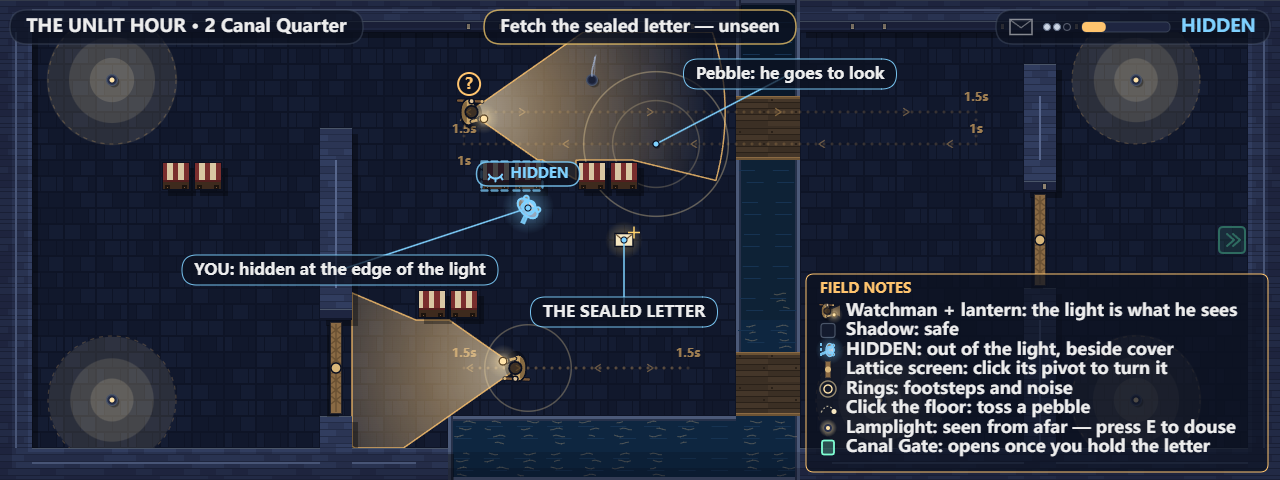
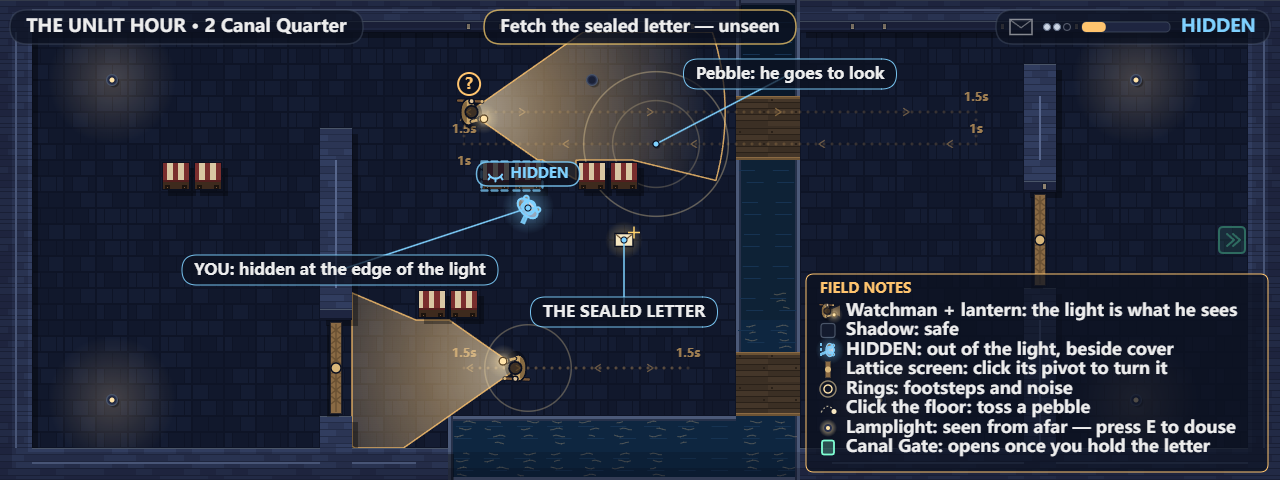
Soften lamplight and clear the close-call view

diff --git a/game/js/render.js b/game/js/render.js
@@ -20,7 +20,7 @@ const ART = {
   slateA: '#2B3554', slateB: '#313D5F', slateSeam: '#232C47', roofRidge: '#57668C',
   wallBase: '#111629', windowWarm: '#FFE3A8', windowSill: '#151C32',
   awningA: '#7A2E2E', awningB: '#D9C7A3', awningShade: '#531E1E',
-  wheel: '#1B130E', wheelHub: '#7A5638', lampCap: '#1A2136', smoke: '#A5B6D4',
+  wheel: '#1B130E', wheelHub: '#7A5638', lampCap: '#1A2136',
   guardCloak: '#876A41', watchHood: '#3D3024', staff: '#7B5836', boot: '#1D1814',
   hand: '#DFC39B', wrenShade: '#88A2C8', wrenStrap: '#8A6A44',
   pebbleFill: '#CBD4E3', pebbleShade: '#69768E',
@@ -364,32 +364,19 @@ function drawWater(ctx, game) {
 function rndDrawLampPools(ctx, game) {
   const level = game.level;
   if (!level || !level.lamps || !level.lamps.length) return;
-  const lamps = level.lamps, lampsLit = level.lampsLit, time = game.time || 0;
-  const poolR = RENDER_STYLE.lampPoolRadius;
+  const { lamps, lampsLit } = level;
+  const radius = RENDER_STYLE.lampPoolRadius;
 
   ctx.save();
+  ctx.globalCompositeOperation = 'screen';
   for (let i = 0; i < lamps.length; i++) {
     if (lampsLit && lampsLit[i] === false) continue;
-    const c = tileCenter(lamps[i].tx, lamps[i].ty);
-    const pulse = 1 + 0.02 * Math.sin(time * 5.4 + lamps[i].tx * 1.9 + lamps[i].ty * 2.7);
-    const r = poolR * pulse;
-
-    // Stepped flat warm lamplight discs (radius 2*TILE = 64 px): high readability and crisp PNG compression.
-    ctx.save();
-    ctx.globalCompositeOperation = 'screen';
-    ctx.fillStyle = rndColorAlpha(COLORS.lampGlow, 0.11);
-    ctx.beginPath(); ctx.arc(c.x, c.y, r, 0, Math.PI * 2); ctx.fill();
-    ctx.fillStyle = rndColorAlpha(COLORS.lampGlow, 0.12);
-    ctx.beginPath(); ctx.arc(c.x, c.y, r * 0.66, 0, Math.PI * 2); ctx.fill();
-    ctx.fillStyle = rndColorAlpha(COLORS.lampGlow, 0.15);
-    ctx.beginPath(); ctx.arc(c.x, c.y, r * 0.34, 0, Math.PI * 2); ctx.fill();
-    ctx.restore();
-
-    ctx.strokeStyle = rndColorAlpha(COLORS.coneEdge, 0.24);
-    ctx.lineWidth = 1;
-    ctx.setLineDash([4, 5]);
-    ctx.beginPath(); ctx.arc(c.x, c.y, poolR, 0, Math.PI * 2); ctx.stroke();
-    ctx.setLineDash([]);
+    const center = tileCenter(lamps[i].tx, lamps[i].ty);
+    const glow = ctx.createRadialGradient(center.x, center.y, 0, center.x, center.y, radius);
+    glow.addColorStop(0, 'rgba(255,214,150,0.22)');
+    glow.addColorStop(1, 'rgba(255,214,150,0)');
+    ctx.fillStyle = glow;
+    ctx.fillRect(center.x - radius, center.y - radius, radius * 2, radius * 2);
   }
   ctx.restore();
 }
@@ -464,7 +451,7 @@ function rndDrawNoises(ctx, game) {
   ctx.restore();
 }
 
-function rndDrawLampPost(ctx, tx, ty, lit, time) {
+function rndDrawLampPost(ctx, tx, ty, lit) {
   const c = tileCenter(tx, ty);
   ctx.save();
   // Cast-iron lamp post + octagonal cap.
@@ -476,28 +463,12 @@ function rndDrawLampPost(ctx, tx, ty, lit, time) {
   if (lit) {
     ctx.fillStyle = COLORS.lampGlow;
     ctx.beginPath(); ctx.arc(c.x, c.y, 2.5, 0, Math.PI * 2); ctx.fill();
-  } else {
-    // Doused lamp: dark post + thin rising smoke curl.
-    const sway = Math.sin(time * 2.4 + tx * 1.7 + ty * 2.1) * 3;
-    ctx.strokeStyle = rndColorAlpha(ART.smoke, 0.72);
-    ctx.lineWidth = 1.7; ctx.lineCap = 'round';
-    ctx.beginPath();
-    ctx.moveTo(c.x, c.y - 4);
-    ctx.bezierCurveTo(c.x - 4 + sway, c.y - 10, c.x + 5 - sway, c.y - 15, c.x + 1 + sway * 0.7, c.y - 23);
-    ctx.stroke();
-
-    ctx.strokeStyle = rndColorAlpha(ART.smoke, 0.4);
-    ctx.lineWidth = 1.2;
-    ctx.beginPath();
-    ctx.moveTo(c.x + 2, c.y - 5);
-    ctx.bezierCurveTo(c.x + 6 - sway * 0.6, c.y - 11, c.x - 2 + sway, c.y - 16, c.x + 4, c.y - 25);
-    ctx.stroke();
   }
   ctx.restore();
 }
 
 function drawWallFaces(ctx, game) {
-  const level = game.level, time = game.time || 0;
+  const level = game.level;
   ctx.save();
   if (rndEnsureStaticCache(level)) ctx.drawImage(rndWallsCache, 0, 0);
   else rndPaintStaticWalls(ctx, level);
@@ -506,11 +477,11 @@ function drawWallFaces(ctx, game) {
   if (lamps && lamps.length) {
     for (let i = 0; i < lamps.length; i++) {
       const lit = !lampsLit || lampsLit[i] !== false;
-      rndDrawLampPost(ctx, lamps[i].tx, lamps[i].ty, lit, time);
+      rndDrawLampPost(ctx, lamps[i].tx, lamps[i].ty, lit);
     }
   } else {
     for (let ty = 0; ty < ROWS; ty++) {
-      for (let tx = 0; tx < COLS; tx++) { if (rndTileAt(level, tx, ty) === 'L') rndDrawLampPost(ctx, tx, ty, true, time); }
+      for (let tx = 0; tx < COLS; tx++) { if (rndTileAt(level, tx, ty) === 'L') rndDrawLampPost(ctx, tx, ty, true); }
     }
   }
   ctx.restore();

diff --git a/game/js/shots.js b/game/js/shots.js
@@ -124,7 +124,7 @@ const SHOTS = {
       game.hasLetter = true;
       game.timesSeen = 1;
       game.exposure = 58.8;
-      game.fieldNotes = true;
+      game.fieldNotes = false;
 
       // Wren holds the letter right at the southern rim of the north watchman's gold cone, sneaking east.
       const wrenPos = tileCenter(24, 6);
